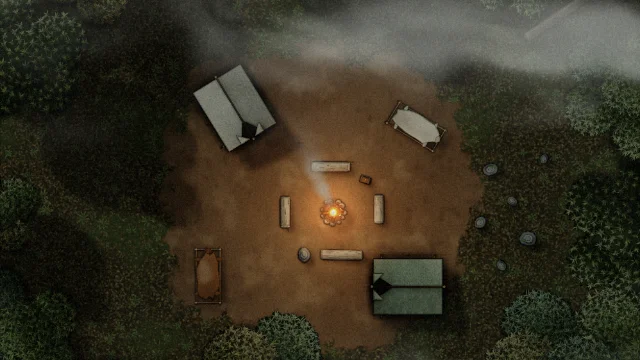
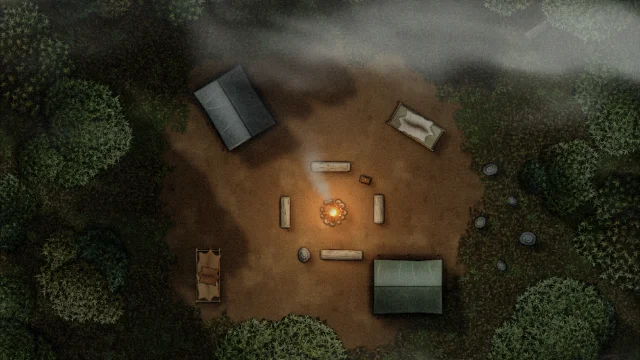
misty camp uses the new tents, cots and a denser forest

diff --git a/scripts/exemplos/acampamento-na-nevoa.ts b/scripts/exemplos/acampamento-na-nevoa.ts
@@ -27,9 +27,9 @@ export const acampamentoNaNevoa: Exemplo = {
     k.objeto('bau', [13.7, 12.0], { rotation: 0.3, scale: 0.45 });
 
     // Os abrigos: lona cinza a noroeste, peles a nordeste, catre de peles a sudoeste e lona verde a sudeste.
-    k.objeto('tenda', [8.8, 9.3], { rotation: -0.55, params: { lona: 'tecido.linho' } });
-    k.objeto('catre-de-peles', [15.6, 10.0], { rotation: 0.55 + Math.PI / 2, params: { pele: 'tecido.linho' } });
-    k.objeto('catre-de-peles', [7.8, 15.6], { rotation: 0, params: { pele: 'madeira.media' } });
+    k.objeto('tenda', [8.8, 9.3], { rotation: -0.55, params: { lona: 'tecido.cinza' } });
+    k.objeto('catre-de-peles', [15.6, 10.0], { rotation: 0.55 + Math.PI / 2, params: { estilo: 0 } });
+    k.objeto('catre-de-peles', [7.8, 15.6], { rotation: 0, params: { estilo: 1 } });
     k.objeto('tenda', [15.3, 16.0], { rotation: Math.PI / 2, params: { lona: 'tecido.salvia' } });
 
     // Pedras e galhos espalhados na franja leste.
@@ -42,6 +42,9 @@ export const acampamentoNaNevoa: Exemplo = {
       [0.4, 18.0, 'casa:arvore-da-mata-6m'], [0.6, 7.4, 'casa:arvore-da-mata-6m-rala'], [3.4, 4.2, 'casa:arvore-da-mata-5m-amarelada'], [0.4, 0.8, 'casa:arvore-da-mata-8m'],
       [10.6, 1.4, 'casa:arvore-da-mata-6m'], [15.4, 0.2, 'casa:arvore-da-mata-6m-rala'], [21.6, 1.0, 'casa:arvore-da-mata-8m'], [23.6, 8.8, 'casa:arvore-da-mata-6m'],
       [23.6, 14.0, 'casa:arvore-da-mata-6m-rala'], [0.0, 13.2, 'casa:arvore-da-mata-4m'], [6.6, 1.0, 'casa:arvore-da-mata-4m'], [19.4, 4.4, 'casa:arvore-da-mata-4m'], [1.2, 23.6, 'casa:arvore-da-mata-8m'],
+      [2.6, 10.2, 'casa:arvore-da-mata-6m'], [3.2, 15.6, 'casa:arvore-da-mata-5m-amarelada'], [7.0, 21.6, 'casa:arvore-da-mata-6m'], [13.6, 23.0, 'casa:arvore-da-mata-6m'],
+      [20.2, 22.8, 'casa:arvore-da-mata-6m'], [22.4, 4.6, 'casa:arvore-da-mata-6m'], [13.6, 3.4, 'casa:arvore-da-mata-5m-amarelada'], [7.0, 4.0, 'casa:arvore-da-mata-6m-rala'],
+      [21.0, 11.8, 'casa:arvore-da-mata-4m'], [18.6, 1.6, 'casa:arvore-da-mata-6m'],
     ] as const) k.objeto(item, [x, y], { rotation: k.rng() * 6 });
 
     k.clima('noite', { time: '23:10', ambient: { color: '#aab6b0', intensity: 0.8 }, sun: { angle: 2.4, color: '#a8b8d8', intensity: 0.9 }, tempo: { fog: 0.45, wind: 0.08 } });
